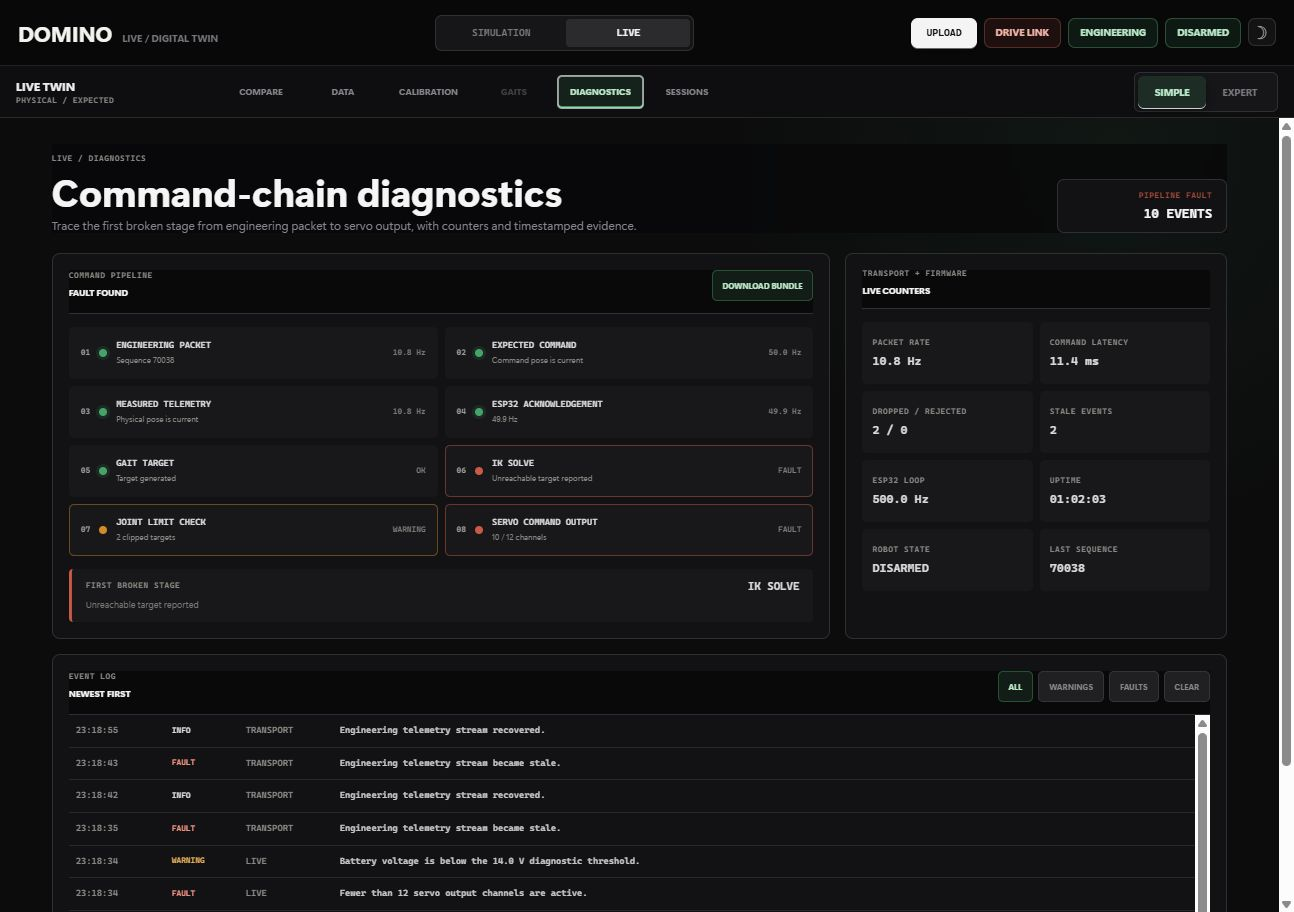
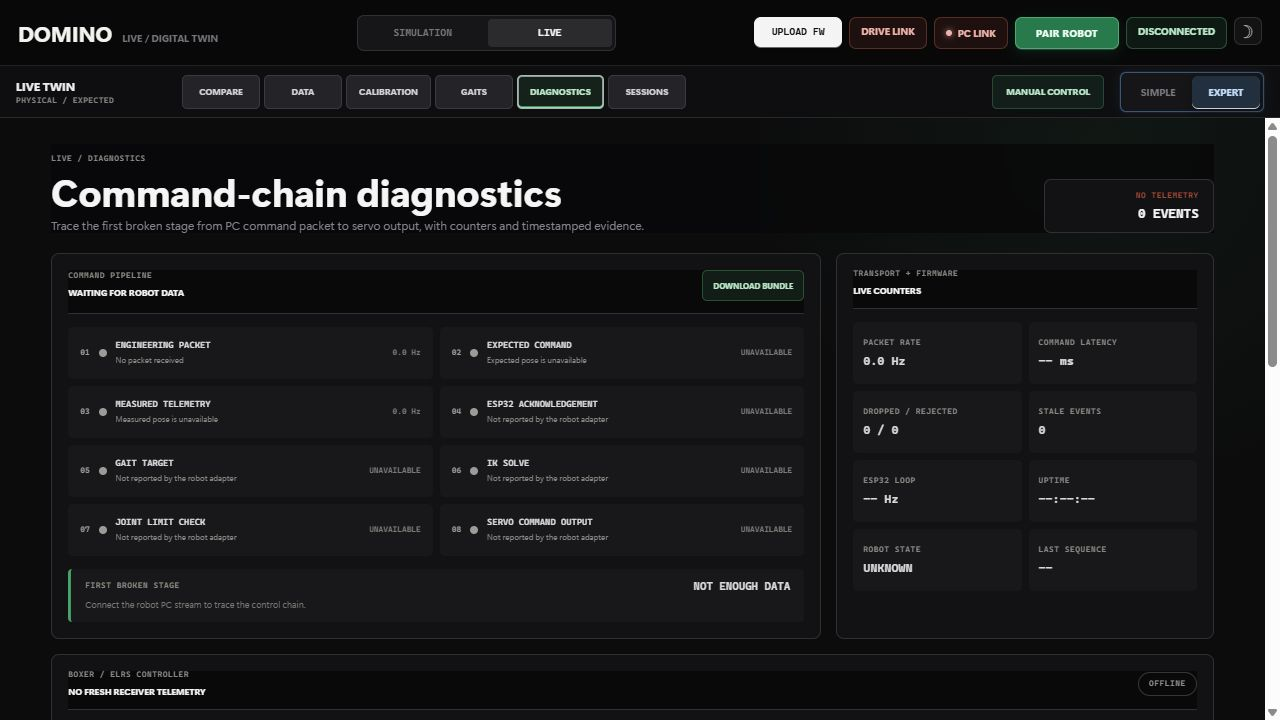
Refresh Virtual Lab documentation and feature gallery

diff --git a/README.md b/README.md
@@ -53,34 +53,89 @@ dependencies, and run its PowerShell launcher. See the
 [Virtual Lab guide](docs/virtual-lab.md) for setup, screenshots, architecture,
 controls, and current limitations.
 
-### Virtual Lab walkthrough
+## Domino Virtual Lab
 
-Simulation and LIVE are intentionally separate workspaces. Simulation is the
-safe place to change poses, terrain, controller mappings, and gait profiles.
-LIVE is the physical-robot engineering workspace: it compares commanded and
-measured state, records synchronized telemetry, guides servo calibration, and
-keeps every hardware-moving action behind an explicit connection and safety
-contract.
+The Virtual Lab is the desktop control and development environment included in
+this repository. It is not a mock website or a hosted demo: the browser UI,
+local Node service, CAD assets, physics runtime, firmware bridge, physical
+companion protocol, tests, and launch scripts are all included under
+[`simulation/standalone`](simulation/standalone).
+
+Simulation and LIVE are deliberately separate top-level workspaces:
+
+- **Simulation** is the safe sandbox. It runs the Domino CAD and linkage model
+  with Rapier physics, terrain, gait tuning, joint inspection, keyboard/gamepad
+  input, and RadioMaster Boxer support. Profiles can be pushed hard here
+  without implying that a physical actuator moved.
+- **LIVE** is the physical-robot workspace. `PAIR ROBOT` opens a read-only
+  Wi-Fi, Bluetooth, or USB pairing flow; `UPLOAD FW` opens the reviewed firmware
+  build/flash workflow. DRIVE LINK and PC LINK remain independent status
+  signals, and every motion-capable operation fails closed until the robot
+  acknowledges the required safety state.
+
+The LIVE digital twin can overlay robot-reported measured joint and IMU state
+against the expected command. Its six pages divide normal operation from the
+deeper engineering tools:
+
+| Page | Purpose |
+| --- | --- |
+| **Compare** | Expected-versus-measured CAD, body/joint error, power, safety state, recording, and guarded manual control. |
+| **Data** | Larger synchronized graphs, recorder controls, CSV export, and an Expert sample table. |
+| **Calibration** | Five-step servo setup, remappable PCA9685 channels, neutral offsets, direction, limits, safe jog contracts, and JSON backup. |
+| **Gaits** | Cross-compatible Simulation profiles, local animated preview, risk checks, robot comparison, persistent apply, and rollback. |
+| **Diagnostics** | Command-pipeline tracing, Boxer/ELRS health, packet counters, event history, and Expert raw packet inspection. |
+| **Sessions** | Completed captures with duration, sample count, error/power summaries, and independent export. |
+
+Simple mode keeps the operating views compact. Expert mode reveals joint-level,
+RF, packet, and sample detail without weakening any safety limit.
+
+### Program walkthrough
 
 ![Domino Virtual Lab usage tour](docs/images/virtual-lab-usage-tour.gif)
 
 The short tour above is captured from the locally running repository build. It
-switches between the Simulation and LIVE workspaces, then visits comparison,
-calibration, physical channel mapping, telemetry data, gait transfer, and
-diagnostics without claiming a physical robot connection.
+switches between Simulation and LIVE, then visits comparison, calibration,
+physical channel mapping, telemetry, gait transfer, and diagnostics without
+claiming a physical robot connection.
 
-| LIVE connection and safety | Telemetry and recording |
+| Simulation sandbox | LIVE digital twin |
 | --- | --- |
-| ![LIVE physical connection manager](docs/images/virtual-lab-live-connection-manager.png) | ![LIVE synchronized telemetry recording](docs/images/virtual-lab-live-recording.png) |
+| ![Current Simulation workspace](docs/images/virtual-lab-simulation-workspace.png) | ![Current LIVE comparison workspace](docs/images/virtual-lab-real-robot-workspace.png) |
 
-| Physical servo channel mapping | Gait profile transfer |
+| Pair a robot | Robot data and graphs |
 | --- | --- |
-| ![LIVE physical servo channel mapping](docs/images/virtual-lab-live-channel-map.png) | ![LIVE gait profile transfer](docs/images/virtual-lab-live-gaits.png) |
+| ![Current robot pairing manager](docs/images/virtual-lab-live-pairing.png) | ![Current LIVE data workspace](docs/images/virtual-lab-live-data.png) |
 
-The screenshots use the repository's synthetic verification adapter so the UI
-can be demonstrated without implying that a physical robot was connected. The
-real ESP32 endpoint fails closed, opens disarmed, and requires fresh heartbeat
-and robot acknowledgements before hardware motion is available.
+| Guided servo calibration | Gait profile transfer |
+| --- | --- |
+| ![Current servo calibration workflow](docs/images/virtual-lab-live-calibration.png) | ![Current gait profile workspace](docs/images/virtual-lab-live-gaits.png) |
+
+| Command diagnostics | Recorded sessions |
+| --- | --- |
+| ![Current command-chain diagnostics](docs/images/virtual-lab-live-diagnostics.png) | ![Current recorded sessions workspace](docs/images/virtual-lab-live-sessions.png) |
+
+The gallery above shows the current local build in its honest offline state.
+The deeper [Virtual Lab guide](docs/virtual-lab.md) also contains clearly
+labelled synthetic-adapter captures that demonstrate armed-state, synchronized
+telemetry, and failure diagnostics without implying that a powered physical
+robot was used. The real ESP32 endpoint opens disarmed and requires fresh
+heartbeats plus explicit robot acknowledgements before hardware motion is
+available.
+
+### Run the program
+
+On Windows, install Node.js and pnpm, then launch from the repository root:
+
+```powershell
+cd simulation\standalone
+pnpm install
+cd ..\..
+.\simulation\standalone\launch.ps1
+```
+
+The launcher starts the local service and opens the source-built application.
+Full setup, controller notes, connection transports, safety contracts, and
+troubleshooting are in the [Virtual Lab guide](docs/virtual-lab.md).
 
 ## Current Status
 

diff --git a/docs/virtual-lab.md b/docs/virtual-lab.md
@@ -29,17 +29,17 @@ or demo input therefore cannot make the Boxer indicator appear connected.
 
 ### Live
 
-![Domino Real Robot engineering workspace](images/virtual-lab-real-robot-workspace.png)
+![Domino LIVE digital-twin workspace](images/virtual-lab-real-robot-workspace.png)
 
 The Live real-robot workspace is deliberately separate from Simulation. It opens
 disarmed and cannot own simulation controls, firmware state, or physics state.
 It keeps the same CAD viewport as a digital-twin surface: commanded geometry
 will be shown as the expected pose, physical joint/IMU telemetry as the measured
 pose, and the difference as joint, body-pose, timing, and graph errors. Until a
-physical engineering link exists, measured values remain unavailable rather
+physical PC link exists, measured values remain unavailable rather
 than borrowing simulated data.
 
-The current comparison shell includes independent drive and engineering link
+The current comparison shell includes independent DRIVE LINK and PC LINK
 health, expected/measured stream state, body-pose deltas, all 12 joint errors,
 power measurements, and a synchronized comparison scope. The physical telemetry
 contract now accepts independently timestamped expected and measured poses,
@@ -48,7 +48,9 @@ stale packets. Fresh measured telemetry drives a separate translucent CAD model
 over the expected pose; the overlay disappears if the stream is more than one
 second old. A transport-neutral connection manager now discovers companion
 adapters, shows robot identity, firmware, signal, endpoint, and capabilities,
-then negotiates an explicit read-only engineering session.
+then negotiates an explicit read-only PC link.
+
+![Current Pair Domino manager](images/virtual-lab-live-pairing.png)
 
 ![LIVE physical connection manager using a synthetic local adapter](images/virtual-lab-live-connection-manager.png)
 
@@ -68,7 +70,7 @@ are documented in [LIVE companion protocol](live-companion-protocol.md).
 
 The LIVE safety dock now reflects the robot-reported state and implements an
 independent safety command protocol. Arming requires a continuous 1.5-second
-hold while the engineering session, expected/measured telemetry, and robot-side
+hold while the PC link, expected/measured telemetry, and robot-side
 Boxer/ELRS drive link all remain fresh. Arm, disarm, E-stop, and E-stop reset do
 not update optimistically: the UI waits for a session-bound robot
 acknowledgement and preserves the reported state on rejection or timeout.
@@ -91,14 +93,21 @@ values. Stopped sessions export analysis-ready CSV containing timestamps, time
 alignment, body pose, power, and all 12 driven-joint errors. The screenshot
 above uses local relay verification data, not a connected physical robot.
 
-The Live navigation now has six working views. Compare keeps the digital twin,
+The LIVE navigation has six working views. Compare keeps the digital twin,
 pose deltas, power readings, and compact scope together. Data provides a larger
-signal graph, recorder controls, live engineering metrics, and a newest-first
+signal graph, recorder controls, live robot metrics, and a newest-first
 table of synchronized samples. Sessions keeps completed recordings for the
 current app run, summarizes duration, sample count, peak joint error, and average
 power, and gives every session independent CSV export and delete actions.
 Recording state is shared across all three views, so moving between them cannot
 interrupt or split a capture.
+
+![Current LIVE robot-data workspace](images/virtual-lab-live-data.png)
+
+The current offline capture above shows the complete Data layout without
+inventing telemetry. Once both expected and measured streams are fresh, the
+same view fills the graph, metrics, and Expert sample table from synchronized
+records.
 
 Calibration is a five-step workflow covering bench safety, selection of all 12
 wired joints, neutral offset and direction, conservative mechanical limits, and
@@ -149,7 +158,7 @@ remains available for explicit rollback. Active robot settings are included in
 LIVE telemetry so the comparison view reflects what the controller is actually
 running.
 
-Diagnostics traces eight stages from the engineering packet through expected and
+Diagnostics traces eight stages from the PC command packet through expected and
 measured poses, ESP32 acknowledgement, gait target, IK, limit checking, and all
 12 servo outputs. It reports packet rate, latency, missing/rejected/stale packet
 counters, ESP32 loop rate, uptime, robot state, and the last sequence number.
@@ -204,6 +213,12 @@ does not represent a connected physical robot.
 Simple mode will present the normal operating workflow. Expert mode will expose
 the detailed signals and settings needed for mechanism, gait, power, and
 control optimization. Safety limits remain active in both modes.
+
+![Current LIVE recorded-sessions workspace](images/virtual-lab-live-sessions.png)
+
+Sessions is intentionally quiet before a recording exists. Completed captures
+remain available for the current application run and can be inspected or
+exported without reconnecting the robot.
 
 ## Current architecture
 

diff --git a/simulation/standalone/README.md b/simulation/standalone/README.md
@@ -28,10 +28,10 @@ packet order and freshness, computes the 12 driven-joint errors, and renders a
 translucent measured CAD overlay only while physical data is fresh. Power is
 carried in the same envelope but remains an independent freshness-gated signal.
 
-`CONNECT` opens the physical-link manager. Companion adapters announce a stable
+`PAIR ROBOT` opens the physical-link manager. Companion adapters announce a stable
 identity, Wi-Fi/Bluetooth/USB transport, robot identity, firmware, signal, and
 capabilities. The browser then requests a read-only handshake and receives a
-short-lived engineering session. All telemetry and hardware command envelopes
+short-lived PC link. All telemetry and hardware command envelopes
 must carry the selected `adapterId` and `sessionId`; the relay rejects stale or
 duplicate adapter identities, mismatched sessions, and unsolicited command
 acknowledgements. Losing the adapter heartbeat immediately locks calibration and
@@ -116,7 +116,7 @@ keyboard fallback as proof that a Boxer is connected.
 
 ![Simulation workspace](../../docs/images/virtual-lab-simulation-workspace.png)
 
-![Real Robot workspace](../../docs/images/virtual-lab-real-robot-workspace.png)
+![LIVE digital-twin workspace](../../docs/images/virtual-lab-real-robot-workspace.png)
 
 ![LIVE gait profile transfer](../../docs/images/virtual-lab-live-gaits.png)
 
@@ -128,7 +128,7 @@ keyboard fallback as proof that a Boxer is connected.
 
 ## Firmware deployment workspace
 
-Open **UPLOAD** in the Real Robot header to review, build, and deploy the
+Open **UPLOAD FW** in the LIVE header to review, build, and deploy the
 real root PlatformIO project. The workspace lists every included file from
 `platformio.ini`, `src/`, `include/`, and `lib/`, shows a package SHA-256, and
 provides a read-only source viewer before hardware operations are enabled.

diff --git a/docs/live-hardware-bring-up.md b/docs/live-hardware-bring-up.md
@@ -24,7 +24,7 @@ pio device monitor
 Expected evidence: firmware boots, every PCA9685 output remains off, CRSF frames
 and link statistics become fresh, and no servo moves.
 
-## Gate 1: read-only USB engineering link
+## Gate 1: read-only USB PC link
 
 Run the Virtual Lab and physical companion in separate terminals:
 
@@ -33,7 +33,7 @@ Run the Virtual Lab and physical companion in separate terminals:
 .\simulation\standalone\start-live-companion.ps1 -Transport usb -Device COMx
 ```
 
-Open `http://127.0.0.1:8770`, select **LIVE**, then **CONNECT**. Verify the robot
+Open `http://127.0.0.1:8770`, select **LIVE**, then **PAIR ROBOT**. Verify the robot
 identity and establish the read-only session. Do not arm.
 
 Expected evidence:

diff --git a/docs/live-companion-protocol.md b/docs/live-companion-protocol.md
@@ -57,7 +57,7 @@ becomes idle while safely disarmed. An owner disconnect while armed enters the
 watchdog state immediately; a disconnect in calibration turns every servo off.
 An E-stop is still accepted from any authenticated transport.
 
-The adapter appears in **LIVE -> CONNECT** only after the physical endpoint has
+The adapter appears in **LIVE -> PAIR ROBOT** only after the physical endpoint has
 sent a fresh hello or telemetry message. A stale or disconnected robot is
 advertised as an error and cannot negotiate a session.
 
